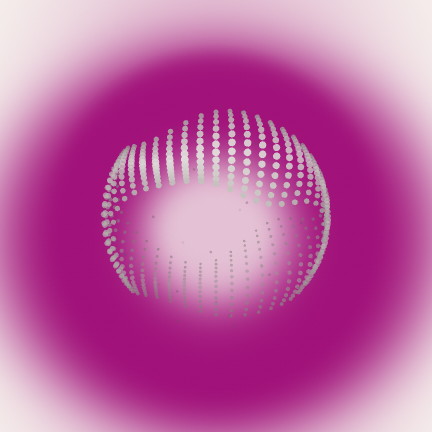
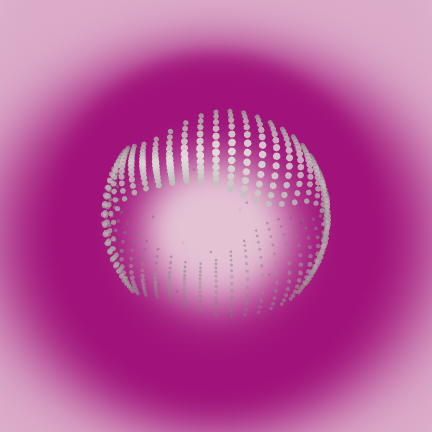
The orb's light: the column lit — a strong, flat tint to its four sides (oval; a rounded box rendered for the owner's pick)
The tint is flat at 0.32 of the glow across most of the column and fades only near its sides, the page's top and the
composer; the centre, the ring and the near fall stay exactly as they were, and "Hello" holds 3.9:1 (desktop) and
3.3:1 (phone). Halfway to the column's edges it is 32-35 in 100 of the glow, three quarters 20 (was 10-16 and 1).
Two shapes rendered at the same strength: an oval (this code) and a rounded box (reads as a panel); the owner picks.

Changed region(s): [[0.6319, 0.0, 1.0, 1.0], [0.0, 0.0, 0.3611, 0.5417], [0.0, 0.5718, 0.2407, 1.0]]

diff --git a/tests/parity/advisor-orb.test.ts b/tests/parity/advisor-orb.test.ts
@@ -489,28 +489,29 @@ describe('the lit field and the pool (the redesign; the ring, 2026-10-09): deepe
     expect(corner).toBeLessThan(0.11);
   });
 
-  it('the field carries the light across the page (the owner, 2026-10-10): the same light close round the orb, and a gentle tint on beyond it', async () => {
+  it('the field carries the light across the page (the owner, 2026-10-10): the same light close round the orb, and the column lit to its four sides', async () => {
     const p = page({ reduce: true });
     p.run(); await p.load();
     const img = p.field.ctx.images.at(-1)!;
     const glow = hex(TOKENS.orbGlow); const paper = hex(TOKENS.paper);
     const lit = (x: number, y: number) => { const q = px(img, 900 + 2 * x, 528 + 2 * y); return q[3] ? (paper.g - q[1]) / (paper.g - glow.g) : 0; };
-    // close round the orb, as before: the ring's deepest at its edge, and falling after it at its own pace (the
-    // redesign's three; slower, a fall of two, reads 0.68, 0.28 and 0.33 at these three)
+    // close round the orb, as before: the ring's deepest at its edge, and falling after it at its own pace, the
+    // tint under it (a slower near fall, the redesign's three made two, reads 0.68, 0.48 and 0.47 at these three)
     expect(lit(100, 0)).toBeGreaterThan(0.9);
-    expect(lit(150, 0)).toBeGreaterThan(0.52); expect(lit(150, 0)).toBeLessThan(0.62);
-    expect(lit(0, -150)).toBeGreaterThan(0.13); expect(lit(0, -150)).toBeLessThan(0.22);
-    expect(lit(0, 150)).toBeGreaterThan(0.19); expect(lit(0, 150)).toBeLessThan(0.28);
-    expect(lit(200, 0)).toBeLessThan(0.3);
-    // beyond, where the light used to end (2.6 of the orb's radii across, 250 px): a gentle tint, carried on
-    expect(lit(250, 0)).toBeGreaterThan(0.04);
-    expect(lit(250, 0)).toBeLessThan(0.2);
-    expect(lit(300, 0)).toBeGreaterThan(0.01);
-    expect(lit(-300, 0)).toBeGreaterThan(0.01);
-    expect(lit(0, -150)).toBeGreaterThan(0.08);
-    // and paper again before the column's sides
+    expect(lit(150, 0)).toBeGreaterThan(0.55); expect(lit(150, 0)).toBeLessThan(0.65);
+    expect(lit(0, -150)).toBeGreaterThan(0.35); expect(lit(0, -150)).toBeLessThan(0.43);
+    expect(lit(0, 150)).toBeGreaterThan(0.35); expect(lit(0, 150)).toBeLessThan(0.43);
+    // the column reads lit (the owner, 2026-10-10): three quarters of the way to each side, and toward the top and
+    // the composer, the tint still holds a fifth of the glow and more — never loud
+    for (const [x, y] of [[330, 0], [-330, 0], [0, -190], [0, 230]] as const) {
+      expect(lit(x, y), `${x},${y}`).toBeGreaterThan(0.18);
+      expect(lit(x, y), `${x},${y}`).toBeLessThan(0.36);
+    }
+    expect(lit(250, 0)).toBeLessThan(0.4);
+    // and paper again before the column's sides and the composer
     expect(lit(430, 0)).toBeLessThan(0.01);
     expect(lit(-430, 0)).toBeLessThan(0.01);
+    expect(lit(0, 290)).toBeLessThan(0.06);
   });
 
   it('every pixel of the light lies on the line from the paper to the glow: never a colour of its own, never a black pixel', async () => {

diff --git a/src/api/web/liveScript.ts b/src/api/web/liveScript.ts
@@ -639,8 +639,8 @@ export const LIVE_SCRIPT = `/* Nomi: the line a page shows when something new ar
      behind the middle. Every step the smootherstep: no edge. Chosen by measure (docs/design/advisor-orb-ring). */
   var RING = [0.3, 1.25];
   var MIDDLE = 0.22;
-  /* The tint's depth at the orb. */
-  var TINT = 0.4;
+  /* The tint: flat across the column, to its four edges (a rounded box), fading only near them. */
+  var TINT = 0.32;
   /* The halo's ring at rho: 0 in the middle, 1 at the ring, 0 at its reach. */
   function ringAt(rho, reach) {
     if (rho <= RING[0]) return 0;
@@ -679,17 +679,16 @@ export const LIVE_SCRIPT = `/* Nomi: the line a page shows when something new ar
     var seed = 2463534242;
     function noise() { seed ^= seed << 13; seed ^= seed >>> 17; seed ^= seed << 5; return (seed >>> 0) / 4294967296; }
     var far = o.tint ? o.tint.r : r;
+    var pw = 2;
     for (var y = 0; y < H; y++) {
       var dy = (y + 0.5) / dpr - cy;
-      var my = dy / (dy < 0 ? far.up : far.down);
-      my *= my;
+      var my = Math.pow(Math.abs(dy / (dy < 0 ? far.up : far.down)), pw);
       if (my >= 1) continue;
       var ny = dy / (dy < 0 ? r.up : r.down);
       ny *= ny;
       for (var x = 0; x < W; x++) {
         var dx = (x + 0.5) / dpr - cx;
-        var mx = dx / (dx < 0 ? far.back : far.on);
-        var m = mx * mx + my;
+        var m = Math.pow(Math.abs(dx / (dx < 0 ? far.back : far.on)), pw) + my;
         if (m >= 1) continue;
         var nx = dx / (dx < 0 ? r.back : r.on);
         var q = nx * nx + ny;
@@ -709,7 +708,7 @@ export const LIVE_SCRIPT = `/* Nomi: the line a page shows when something new ar
           t = Math.pow(1 - smoother(Math.sqrt(q)), o.fall) * o.depth;
         }
         if (o.tint) {
-          var e = o.tint.depth * Math.pow(1 - smoother(Math.sqrt(m)), o.tint.fall);
+          var e = o.tint.depth * (1 - smoother((Math.pow(m, 1 / pw) - o.tint.flat) / (1 - o.tint.flat)));
           if (o.ring) e *= smoother((Math.sqrt(dx * dx + dy * dy) - o.ring.light) / (o.ring.deep - o.ring.light));
           t += (1 - t) * e;
         }
@@ -871,7 +870,7 @@ export const LIVE_SCRIPT = `/* Nomi: the line a page shows when something new ar
       var all = Math.max(48, side);
       wash(field, cx, cy, { up: Math.max(48, Math.min(cy - 8, tall)), down: down, back: wide, on: wide },
         { depth: 1, fall: 3, paper: paper, glow: glow, ring: ringFor(orb, MIDDLE),
-          tint: { r: { up: Math.max(48, cy - 8), down: reach, back: all, on: all }, depth: TINT, fall: 1.5 } });
+          tint: { r: { up: Math.max(48, cy - 8), down: reach, back: all, on: all }, depth: TINT, flat: 0.6 } });
     }
     function litPool() {
       if (!pool || !here || !paper || !glow) return;

diff --git a/docs/design/advisor-orb-ring/README.md b/docs/design/advisor-orb-ring/README.md
@@ -59,31 +59,43 @@ The near (light) dots stay clear against the lighter middle. The far ink dots ca
   - the field forgetting the ring;
   - a straight, cornered rise.
 
-## Bigger: a tint carried across the page (the owner, 2026-10-10)
+## Bigger: the column lit (the owner, 2026-10-10)
 
-"Spread the magenta wider across the surface so it carries the theme across the page … Keep the centre as it is
-now … Still one continuous fall-off … fade out before the composer and never reach the nav rail."
+The first tint was too faint. The owner: "the only visible change is a slight pinkness above the orb … Push the tint
+much harder … Carry it to all four edges of the column."
 
 - **The centre and the ring are exactly as before:**
   - the same light middle (22 in 100 of the glow);
   - the same #A1127A ring just outside the dots;
   - the same quick fall close round the orb.
-- **Under it, a second, faint light (the tint):**
-  - **Strength:** at most 0.4 of the glow, laid on whatever the first light leaves.
-  - **Reach:** as far as the page allows — the column's sides, the page's top, and the composer — falling gently
-    all the way.
+- **Under it, the tint:** a second light, laid on whatever the first leaves.
+  - **Flat:** at 0.32 of the glow across most of the column.
+  - **Fading at the edges:** only in the last 40 % of its reach, which runs to the column's sides, the page's top
+    and the composer.
   - **Not behind the middle:** it rises with the ring, so the middle keeps its light.
-- **One continuous fall:** the tint adds smoothly, every join is the smootherstep, and no pixel is off the line from
-  the paper to the glow (a guard).
-- **A first try was rejected:** stretching the one light further spread the deep magenta as well. "Hello" then sat
-  on the glow itself, at 2.2:1. The tint keeps the deep part where it was.
+- **One continuous fall:** every join is the smootherstep, and no pixel is off the line from the paper to the glow (a
+  guard).
 
-**"Hello" against the light behind it, at worst:** 4.5:1 on a desktop and 3.4:1 on a phone. Both pass the 3:1 large
-text needs.
+**How lit the column is**, as depth from the orb's centre toward each edge (0 is paper, 100 the glow), on a desktop:
 
-**A bug found and fixed on the way:** the smootherstep could return a hair above 1 at the light's edge. Raised to
-the tint's 1.5 power, that made two black pixels at its corners. It is clamped now, and the guard that every pixel
-lies on the paper-to-glow line holds it.
+| | Halfway to the edge | Three quarters | Column lit more than 0.1 |
+|---|---|---|---|
+| The faint tint (before) | 10–16 | about 1 | 22 % |
+| Now | 32–35 | about 20 (8 toward the composer, which is near) | 51 % |
+
+**"Hello" against the light behind it, at worst:** 3.9:1 on a desktop and 3.3:1 on a phone, so no hold-back behind it
+was needed. (Stretching the one light instead was tried and rejected earlier: the deep magenta spread and "Hello" sat
+on it at 2.2:1.)
+
+**Two shapes, the same strength — the owner's pick.** Both are in `ring-tint-compare-{desktop,phone}-en.png`, side by
+side with the faint tint at the same size.
+- **A, a rounded box** (`candidate-a-box-empty-page-*`): reaches into the column's corners, but reads as a pink panel
+  with straight sides.
+- **B, an oval** (the `ring-*` files, and the code on this branch): reaches all four sides of the column and reads as
+  light, not a panel. **My pick.** One line changes it to A.
+
+**A bug found and fixed on the way:** the smootherstep could return a hair above 1 at the light's edge. Raised to a
+fractional power, that made two black pixels. It is clamped now, and the paper-to-glow guard holds it.
 
 ## Where the light stops, measured in a real browser
 
@@ -109,13 +121,15 @@ No share of the page is counted. The owner: judge it by whether the page feels l
 ## Files
 
 - **Start here:**
-  - `ring-resting-{desktop,phone}-en-closeup.png`: the resting orb, close up (192 px; 144 on a phone).
-  - `ring-empty-page-{desktop,phone}-en.png`: the whole empty page.
-- `ring-resting-{desktop,phone}-en-wide.png`: the orb and its light with room round them.
-- `ring-light-alone-desktop-en.png`: the light alone (the orb's file blocked: no dots), to judge the ring, the tint
-  and the fall.
+  - `ring-tint-compare-{desktop,phone}-en.png`: the faint tint, A and B, side by side at the same size.
+  - `ring-empty-page-{desktop,phone}-en.png`: the whole empty page with B, as the code on this branch draws it.
+  - `ring-resting-{desktop,phone}-en-closeup.png`: the resting orb, close up.
+- `candidate-a-box-empty-page-{desktop,phone}-en.png`: the same page with A.
+- `faint-tint-empty-page-{desktop,phone}-en.png`: the faint tint (before this round).
+- `ring-resting-{desktop,phone}-en-wide.png`: the orb and its light with room round them (B).
+- `ring-light-alone-desktop-en.png`: the light alone (B; the orb's file blocked: no dots).
 - `ring-thinking-{desktop,phone}-en-closeup.png`: the thinking orb beside the bar, in its pool (no tint there).
-- `before-tint-ring-*`: the ring before the tint (2026-10-09).
+- `before-tint-ring-*`: the ring before any tint (2026-10-09).
 - `before-ring-resting-desktop-en-closeup.png`: before the ring (#266).
 
 The `empty-*` files in `../advisor-orb-dots/` are #266's, before the ring.
